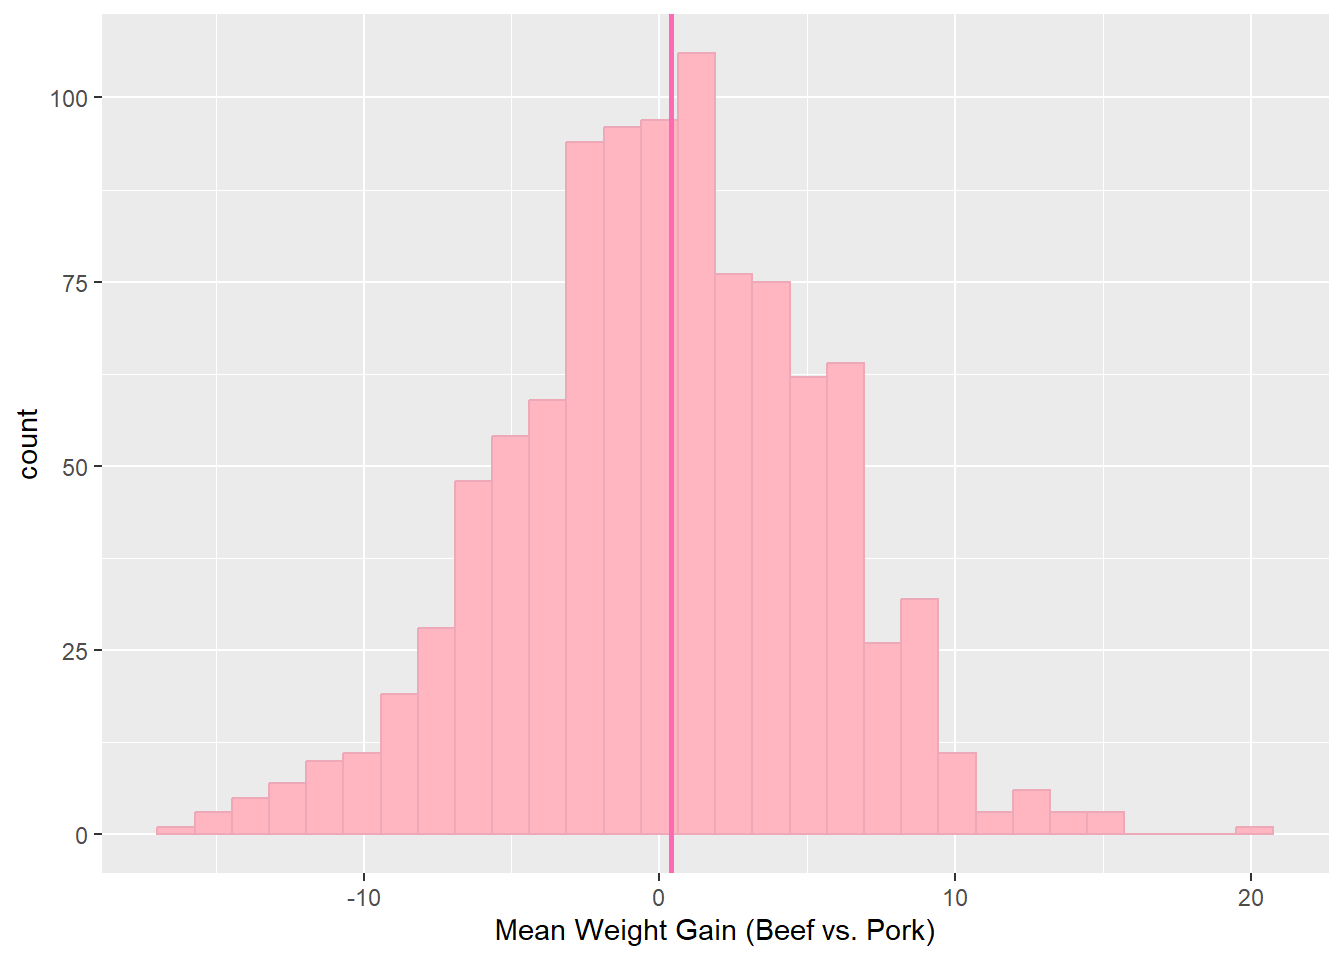
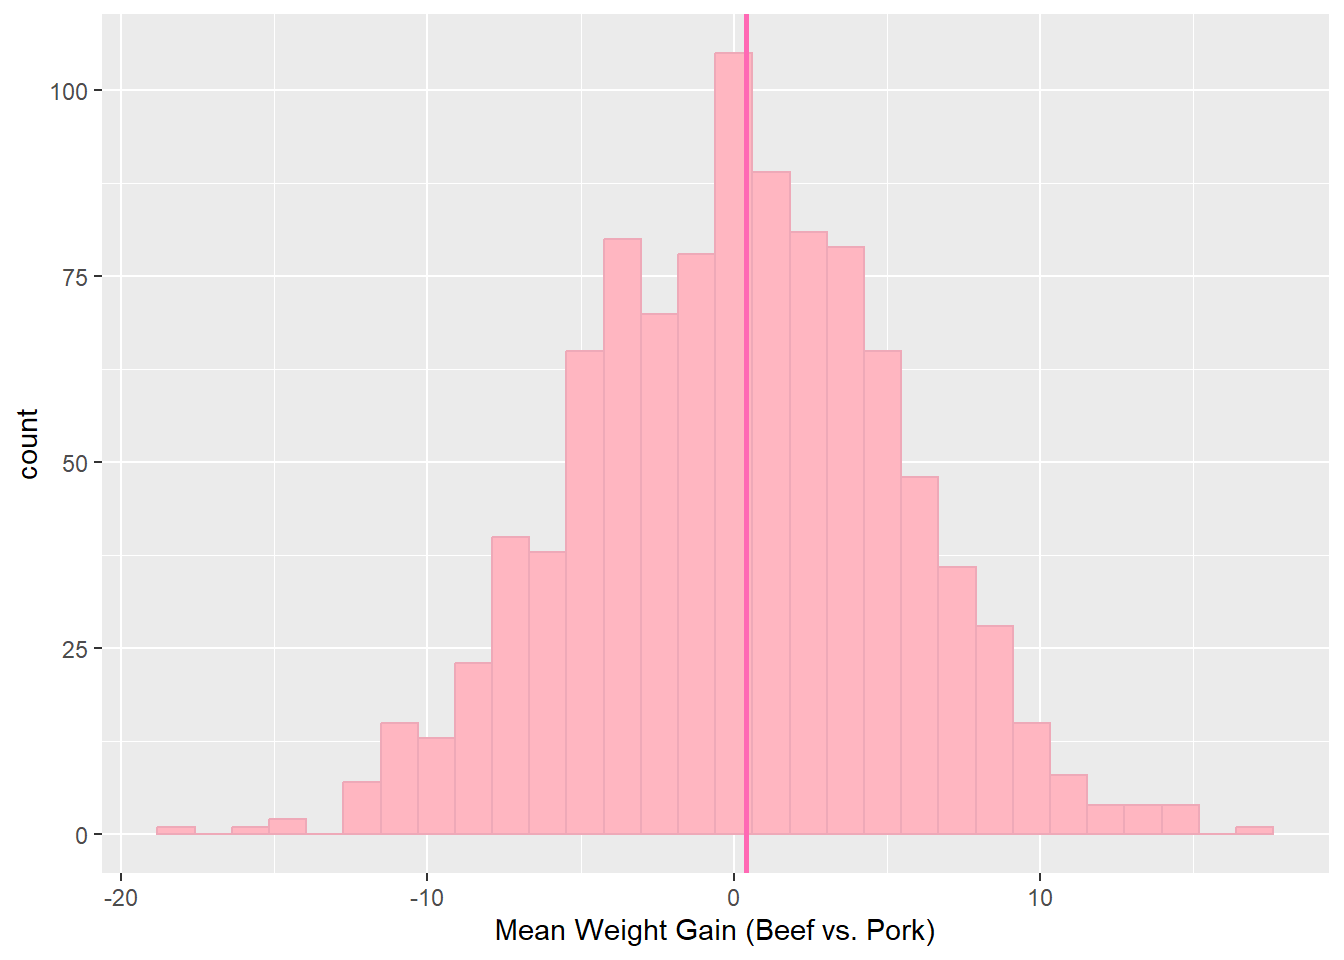
r a t s

diff --git a/docs/mini_project2.html b/docs/mini_project2.html
@@ -152,25 +152,25 @@ ul.task-list li input[type="checkbox"] {
 <h3 class="anchored" data-anchor-id="fat-rats">Fat Rats!</h3>
 <p>For this project, I examined the dataset FatRats, which has data from an experiment on the effects of diet on the weight gain of rats. The study had 60 baby rat participants. They split them up into groups, where they were fed different sources of protein(Beef, Cereal, and Pork). The results show the weight gain for each rat from their protein source.</p>
 <p>I decided to conduct a randomization-type test by simulating the behavior under the null hypothesis. I wanted to see if the results of the study would be significant. I did this by running simulations of the study and randomizing the protein source to see if a random test would produce significantly different responses than the experiment did.</p>
-<p>The following graphs show the difference in average weight gains between different proteins with the randomized test. The hot pink vertical line shows the average weight gain from the study that was run. The p-values below each chart show the probability under the null hypothesis(our randomized experiment) of obtaining a test statistic at least as extreme as the one obtained. The p-values are calculated by looking at how many of the randomized statistics are greater than or equal to the observed statistics from the rat study.</p>
+<p>The following graphs show the difference in average weight gains between different proteins with the randomized test, which shows what might happen if protein had no effect. The hot pink vertical line shows the average weight gain from the study that was run. The p-values below each chart show the probability under the null hypothesis(our randomized experiment) of obtaining a test statistic at least as extreme as the one obtained. The p-values are calculated by looking at how many of the randomized statistics are greater than or equal to the observed statistics from the rat study.</p>
 <div class="cell">
 <div class="cell-output-display">
 <p><img src="mini_project2_files/figure-html/unnamed-chunk-3-1.png" class="img-fluid" width="672"></p>
 </div>
 <div class="cell-output cell-output-stdout">
-<pre><code>Beef vs. Pork p-value: 0.307 </code></pre>
+<pre><code>Beef vs. Pork p-value: 0.297 </code></pre>
 </div>
 <div class="cell-output-display">
 <p><img src="mini_project2_files/figure-html/unnamed-chunk-3-2.png" class="img-fluid" width="672"></p>
 </div>
 <div class="cell-output cell-output-stdout">
-<pre><code>Beef vs. Cereal p-value: 0.3 </code></pre>
+<pre><code>Beef vs. Cereal p-value: 0.286 </code></pre>
 </div>
 <div class="cell-output-display">
 <p><img src="mini_project2_files/figure-html/unnamed-chunk-3-3.png" class="img-fluid" width="672"></p>
 </div>
 <div class="cell-output cell-output-stdout">
-<pre><code>Pork vs. Cereal p-value: 0.272 </code></pre>
+<pre><code>Pork vs. Cereal p-value: 0.303 </code></pre>
 </div>
 </div>
 <p>As we can see, all of the p-values are close to 0.3. Generally, if the p-value is less than 0.05, we will consider the results of the study statistically significant. Because these results are well over the point of statistical significance, we can fail to reject the null hypothesis and claim that the difference in weight gains due to different protiens is not statistically significant.</p>
